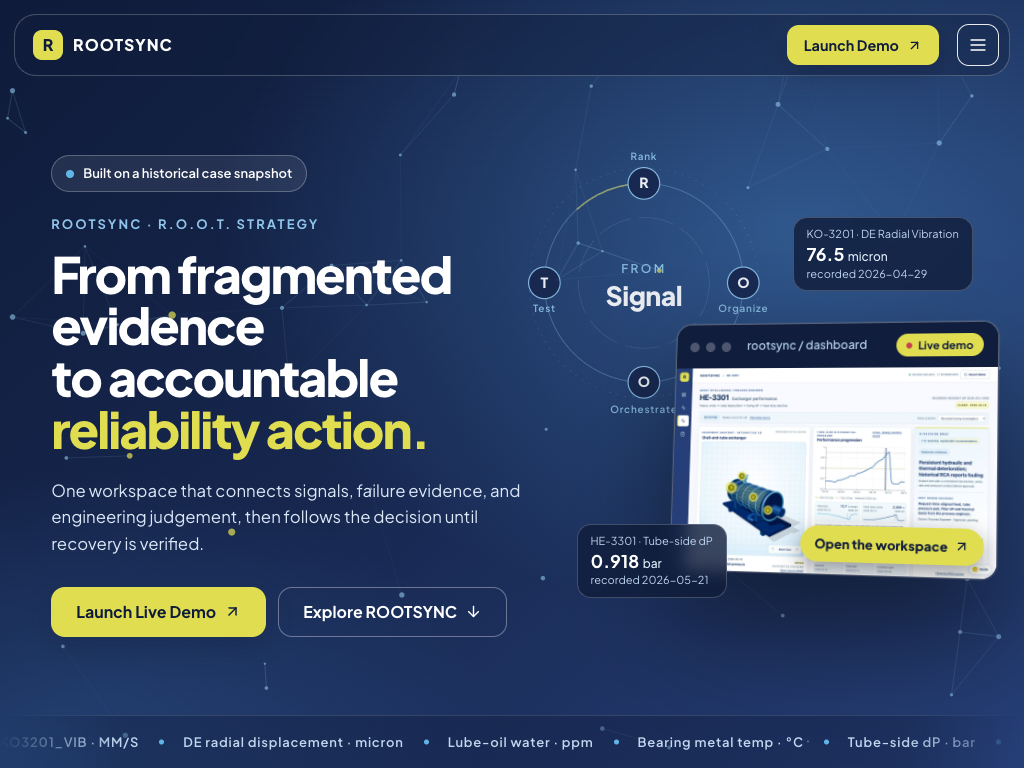
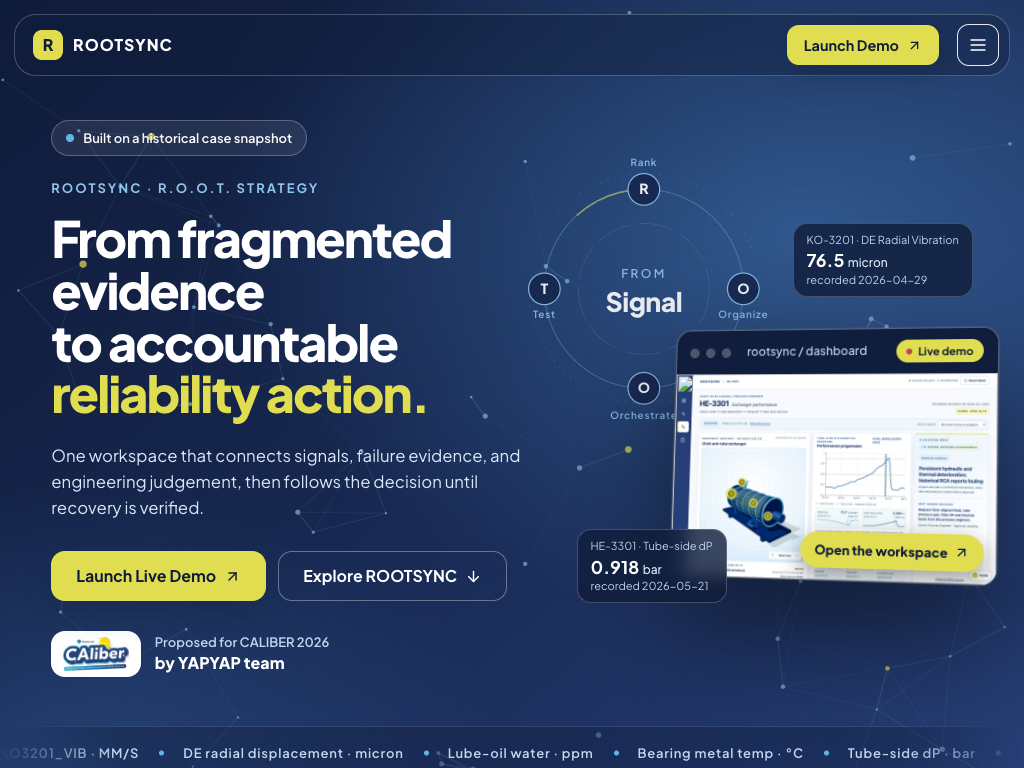
feat: faster walkthroughs, per-card R.O.O.T. scenes, CALIBER and team credit
Workflow walkthrough advances every 1.7s. The hero demo window cycles four
workspace views at 2.5s each. R.O.O.T. scenes now start when each card
enters the viewport, which fixes cards two to four staying still while the
section is pinned. Adds the CALIBER logo and the YAPYAP team credit to the
hero and footer.

diff --git a/app/landing.css b/app/landing.css
@@ -86,6 +86,12 @@ html.lenis, html.lenis body { height: auto; }
 .lp-hero-body { max-width: 31em; margin-top: 24px; color: #dbe8f8; font-size: clamp(1.05rem, 1.3vw, 1.25rem); }
 .lp-cta { display: flex; flex-wrap: wrap; gap: 12px; margin-top: 30px; }
 .lp-cta.center { justify-content: center; }
+.lp-proposed { display: inline-flex; align-items: center; gap: 14px; margin-top: 30px; }
+.lp-proposed img, .lp-footer-team img { width: auto; height: 46px; padding: 6px 12px; border-radius: 14px; background: #fff; }
+.lp-proposed span, .lp-footer-team span { display: grid; color: #c3d8f0; font-size: .8125rem; font-weight: 600; line-height: 1.35; }
+.lp-proposed b, .lp-footer-team b { color: #fff; font-size: 1rem; font-weight: 800; }
+.lp-footer-team { display: flex; flex-wrap: wrap; align-items: center; gap: 14px; margin-top: 24px; }
+.lp-footer-team b { font-size: .875rem; }
 .lp-hero-visual { position: relative; width: 100%; max-width: 560px; margin: 0 auto; aspect-ratio: 1 / .96; perspective: 1400px; }
 .lp-orbit { position: absolute; left: -14%; top: -12%; width: 62%; aspect-ratio: 1; opacity: .9; }
 .lp-hero-demo { position: absolute; right: -6%; bottom: 3%; display: block; width: 84%; border: 1px solid #ffffff4d; border-radius: 16px; background: var(--lp-deep); box-shadow: 0 50px 110px #00000080, 0 0 0 1px #ffffff14; overflow: hidden; transform: rotateY(-14deg) rotateX(6deg); transform-origin: 60% 50%; transition: box-shadow .3s, border-color .3s; animation: lp-float 7s ease-in-out infinite; }
@@ -93,7 +99,7 @@ html.lenis, html.lenis body { height: auto; }
 .lp-hero-demo .lp-mock-bar b { display: inline-flex; align-items: center; gap: 6px; margin-left: auto; padding: 3px 10px; border-radius: 999px; background: var(--lp-yellow); color: var(--lp-deep); font-size: .6875rem; }
 .lp-hero-demo .lp-mock-bar b::before { content: ""; width: 6px; height: 6px; border-radius: 50%; background: #c8424d; animation: lp-blink 1.2s ease-in-out infinite; }
 .lp-hero-shots { position: relative; display: block; aspect-ratio: 16 / 10; }
-.lp-hero-shots img { position: absolute; inset: 0; width: 100%; height: 100%; object-fit: cover; object-position: top left; animation: lp-shots 15s linear infinite; animation-delay: calc(var(--i) * 5s - 15s); }
+.lp-hero-shots img { position: absolute; inset: 0; width: 100%; height: 100%; object-fit: cover; object-position: top left; animation: lp-shots 10s linear infinite; animation-delay: calc(var(--i) * 2.5s - 10s); }
 .lp-hero-open { position: absolute; right: 12px; bottom: 12px; display: inline-flex; align-items: center; gap: 6px; padding: 8px 14px; border-radius: 999px; background: var(--lp-yellow); color: var(--lp-deep); font-size: .8125rem; font-weight: 800; box-shadow: 0 8px 22px #0006; transition: transform .25s var(--lp-ease); }
 .lp-hero-demo:hover .lp-hero-open { transform: translateY(-3px) scale(1.04); }
 .lp-orbit svg { width: 100%; height: 100%; overflow: visible; }
@@ -301,7 +307,7 @@ html.lenis, html.lenis body { height: auto; }
 .lp-relay { position: relative; display: grid; grid-template-columns: repeat(8, minmax(0, 1fr)); gap: 8px; }
 .lp-relay::before, .lp-relay::after { content: ""; position: absolute; left: 6.25%; top: 27px; height: 3px; border-radius: 3px; }
 .lp-relay::before { right: 6.25%; background: #c3d5e3; }
-.lp-relay::after { width: calc(var(--p) * 87.5%); background: linear-gradient(90deg, var(--lp-mid), var(--lp-cyan)); transition: width .7s var(--lp-ease); }
+.lp-relay::after { width: calc(var(--p) * 87.5%); background: linear-gradient(90deg, var(--lp-mid), var(--lp-cyan)); transition: width .45s var(--lp-ease); }
 .lp-relay button { position: relative; z-index: 1; display: grid; justify-items: center; gap: 3px; width: 100%; padding: 0; border: 0; background: none; color: inherit; text-align: center; }
 .lp-relay-node { display: grid; place-items: center; width: 56px; height: 56px; margin-bottom: 8px; border: 2px solid var(--lp-mid); border-radius: 50%; background: #fff; color: var(--lp-navy); font-size: 1.1rem; font-weight: 800; transition: transform .4s var(--lp-ease), background-color .3s, border-color .3s, color .3s; }
 .lp-relay li.done .lp-relay-node { background: var(--lp-navy); border-color: var(--lp-navy); color: #fff; }
@@ -317,17 +323,17 @@ html.lenis, html.lenis body { height: auto; }
 .lp-scene-role { display: inline-flex; align-items: center; gap: 10px; margin-bottom: 12px; padding: 5px 14px 5px 5px; border-radius: 999px; background: #ffffff1a; font-size: .875rem; font-weight: 700; }
 .lp-scene-role span { display: grid; place-items: center; width: 32px; height: 32px; border-radius: 50%; background: var(--lp-yellow); color: var(--lp-deep); font-size: .75rem; font-weight: 800; }
 .lp-scene-who > p:last-child { max-width: 24em; color: #dbe8f8; font-size: 1.1rem; }
-.lp-scene-screen { position: relative; border-radius: 18px; background: #fff; color: var(--lp-ink); box-shadow: 0 30px 70px #00000059; overflow: hidden; animation: lp-screen .55s var(--lp-ease); }
+.lp-scene-screen { position: relative; border-radius: 18px; background: #fff; color: var(--lp-ink); box-shadow: 0 30px 70px #00000059; overflow: hidden; animation: lp-screen .35s var(--lp-ease); }
 .lp-scene-bar { display: flex; align-items: center; gap: 6px; padding: 10px 14px; background: var(--lp-tint); border-bottom: 1px solid var(--lp-line); }
 .lp-scene-bar i { width: 9px; height: 9px; border-radius: 50%; background: #b9cbdb; }
 .lp-scene-bar span { margin-left: 8px; font-size: .75rem; font-weight: 700; }
 .lp-scene-screen ul { padding: 14px 14px 6px; }
-.lp-scene-screen li { display: flex; align-items: center; gap: 10px; margin-bottom: 8px; padding: 11px 13px; border: 1px solid var(--lp-line); border-radius: 12px; font-size: .875rem; font-weight: 600; animation: lp-rowin .45s var(--lp-ease) both; animation-delay: calc(.15s + var(--i) * .22s); }
+.lp-scene-screen li { display: flex; align-items: center; gap: 10px; margin-bottom: 8px; padding: 11px 13px; border: 1px solid var(--lp-line); border-radius: 12px; font-size: .875rem; font-weight: 600; animation: lp-rowin .3s var(--lp-ease) both; animation-delay: calc(.05s + var(--i) * .1s); }
 .lp-scene-screen li.alert { border-color: #f3c0c5; background: #fdecee; color: #a32b36; }
 .lp-scene-screen li.ok { border-color: #bfe3d6; background: #e9f6f1; color: #17604d; }
-.lp-scene-screen li.pick { border: 1.5px solid var(--lp-navy); color: var(--lp-navy); font-weight: 800; animation: lp-rowin .45s var(--lp-ease) both, lp-pick 2.6s var(--lp-ease) both; animation-delay: calc(.15s + var(--i) * .22s), 0s; }
+.lp-scene-screen li.pick { border: 1.5px solid var(--lp-navy); color: var(--lp-navy); font-weight: 800; animation: lp-rowin .3s var(--lp-ease) both, lp-pick 1.5s var(--lp-ease) both; animation-delay: calc(.05s + var(--i) * .1s), 0s; }
 .lp-scene-screen .dot { width: 8px; height: 8px; border-radius: 50%; background: currentColor; }
-.lp-scene-cursor { position: absolute; left: 62%; bottom: 14px; color: var(--lp-deep); fill: #fff; filter: drop-shadow(0 2px 4px #0006); animation: lp-cursor 2.6s var(--lp-ease) both; }
+.lp-scene-cursor { position: absolute; left: 62%; bottom: 14px; color: var(--lp-deep); fill: #fff; filter: drop-shadow(0 2px 4px #0006); animation: lp-cursor 1.5s var(--lp-ease) both; }
 .lp-scene-rows { position: absolute; width: 1px; height: 1px; overflow: hidden; clip-path: inset(50%); white-space: nowrap; }
 .lp-scene-toggle { position: absolute; right: 16px; top: 16px; display: grid; place-items: center; width: 36px; height: 36px; border: 1px solid #ffffff4d; border-radius: 50%; background: transparent; color: #fff; }
 .lp-scene-toggle:hover { background: #ffffff1f; }
@@ -398,7 +404,7 @@ html.lenis, html.lenis body { height: auto; }
 @keyframes lp-row { 0% { opacity: 0; translate: -16px 0; } 7%, 68% { opacity: 1; translate: 0; } 76%, 100% { opacity: 0; translate: 0; } }
 @keyframes lp-tick { 0% { background: transparent; border-color: #9db1c6; color: transparent; scale: 1; } 4% { background: #1c725b; border-color: #1c725b; color: #fff; scale: 1.45; } 9%, 70% { background: #1c725b; border-color: #1c725b; color: #fff; scale: 1; } 78%, 100% { background: transparent; border-color: #9db1c6; color: transparent; } }
 @keyframes lp-stamp { 0%, 68% { opacity: 0; scale: 2; } 74%, 94% { opacity: 1; scale: 1; } 100% { opacity: 0; scale: 1; } }
-@keyframes lp-shots { 0%, 30% { opacity: 1; } 34%, 96% { opacity: 0; } 100% { opacity: 1; } }
+@keyframes lp-shots { 0%, 22% { opacity: 1; } 25%, 97% { opacity: 0; } 100% { opacity: 1; } }
 @keyframes lp-beacon { from { box-shadow: 0 0 0 0 #e0de50b3; } to { box-shadow: 0 0 0 18px #e0de5000; } }
 @keyframes lp-screen { from { opacity: 0; transform: translateY(26px) scale(.96); } }
 @keyframes lp-rowin { from { opacity: 0; transform: translateX(-18px); } }

diff --git a/components/landing/Sections.tsx b/components/landing/Sections.tsx
@@ -40,12 +40,13 @@ export function LandingHero(){
      <Link className="lp-btn primary" href={routes.dashboard}>Launch Live Demo<ArrowUpRight size={17} aria-hidden="true"/></Link>
      <a className="lp-btn ghost" href="#evidence">Explore ROOTSYNC<ArrowDown size={17} aria-hidden="true"/></a>
     </div>
+    <p className="lp-proposed" data-intro><img src={asset('/landing/caliber-logo.png')} alt="CALIBER, Chandra Asri Limitless Innovation and Business Strategy Challenge" width={530} height={275}/><span>Proposed for CALIBER 2026<b>by YAPYAP team</b></span></p>
    </div>
    <div className="lp-hero-visual">
     <Orbit/>
     <Link className="lp-hero-demo" href={routes.dashboard} aria-label="Open the live demo">
      <span className="lp-mock-bar" aria-hidden="true"><i/><i/><i/><span>rootsync / dashboard</span><b>Live demo</b></span>
-     <span className="lp-hero-shots">{['dashboard','ko-3201','he-3301'].map((n,i)=><img key={n} src={asset(`/landing/${n}.jpg`)} alt="" width={1440} height={900} style={css({'--i':i})} fetchPriority={i===0?'high':undefined} loading={i===0?undefined:'lazy'}/>)}</span>
+     <span className="lp-hero-shots">{['dashboard','ko-3201','he-3301','actions'].map((n,i)=><img key={n} src={asset(`/landing/${n}.jpg`)} alt="" width={1440} height={900} style={css({'--i':i})} fetchPriority={i===0?'high':undefined} loading={i===0?undefined:'lazy'}/>)}</span>
      <span className="lp-hero-open">Open the workspace<ArrowUpRight size={15} aria-hidden="true"/></span>
     </Link>
     <ul className="lp-chips" aria-label="Recorded readings at the historical trip week">
@@ -174,6 +175,7 @@ export function LandingFooter(){
    <p className="lp-wordmark"><span className="lp-mark" aria-hidden="true">R</span>ROOTSYNC</p>
    <nav aria-label="Footer">{navItems.map(n=><a key={n.id} href={`#${n.id}`}>{n.label}</a>)}<Link href={routes.dashboard}>Dashboard</Link></nav>
   </div>
-  <p className="lp-source">R.O.O.T. Strategy · CALIBER 2026 · Built on a frozen historical case snapshot. Advisory only. Protective systems remain authoritative.</p>
+  <p className="lp-footer-team"><img src={asset('/landing/caliber-logo.png')} alt="CALIBER, Chandra Asri Limitless Innovation and Business Strategy Challenge" width={530} height={275} loading="lazy"/><span>R.O.O.T. Strategy · a proposal for CALIBER 2026<b>YAPYAP team · Abel Gani · Muhammad Faris Daffa · Adelia Rifani</b></span></p>
+  <p className="lp-source">Built on a frozen historical case snapshot. Advisory only. Protective systems remain authoritative. The CALIBER logo belongs to its owner and is shown to identify the competition.</p>
  </footer>;
 }

diff --git a/components/landing/LandingMotion.tsx b/components/landing/LandingMotion.tsx
@@ -14,6 +14,10 @@ export function LandingMotion(){
   const page=document.querySelector<HTMLElement>('.lp');if(!page)return;
   page.classList.add('lp-ready');
   if(window.matchMedia('(prefers-reduced-motion: reduce)').matches){page.querySelectorAll('[data-live]').forEach(el=>el.classList.add('live'));return}
+  // Looping scenes run only while they are actually visible. An IntersectionObserver is used
+  // because it stays correct inside the pinned, sideways-moving R.O.O.T. track.
+  const liveObserver=new IntersectionObserver(entries=>entries.forEach(e=>e.target.classList.toggle('live',e.isIntersecting)),{threshold:.2});
+  page.querySelectorAll('[data-live]').forEach(el=>liveObserver.observe(el));
   gsap.registerPlugin(ScrollTrigger,SplitText);
   page.classList.add('lp-anim');
   const lenis=new Lenis({duration:1.1,smoothWheel:true});
@@ -48,8 +52,6 @@ export function LandingMotion(){
     const write=()=>{el.textContent=o.v.toLocaleString('en-US',{minimumFractionDigits:decimals,maximumFractionDigits:decimals})};
     gsap.to(o,{v:end,duration:1.8,ease:'power2.out',onUpdate:write,scrollTrigger:{trigger:el,start:'top 90%',once:true}});
    });
-   // Looping micro-animations only run while their section is on screen
-   gsap.utils.toArray<HTMLElement>('.lp [data-live]').forEach(el=>ScrollTrigger.create({trigger:el,start:'top 80%',end:'bottom 10%',toggleClass:'live'}));
    // Parallax
    gsap.utils.toArray<HTMLElement>('.lp [data-parallax]').forEach(el=>gsap.fromTo(el,{yPercent:Number(el.dataset.parallax)},{yPercent:-Number(el.dataset.parallax),ease:'none',scrollTrigger:{trigger:el,start:'top bottom',end:'bottom top',scrub:true}}));
    // Demo screenshot unfolds from a tilted plane
@@ -86,7 +88,7 @@ export function LandingMotion(){
   const refresh=()=>{ScrollTrigger.sort();ScrollTrigger.refresh()};
   refresh();
   document.fonts?.ready.then(refresh);window.addEventListener('load',refresh);
-  return ()=>{window.removeEventListener('load',refresh);page.classList.remove('lp-anim');ctx.revert();gsap.ticker.remove(tick);lenis.destroy();delete window.__lenis;page.classList.remove('lp-ready')};
+  return ()=>{window.removeEventListener('load',refresh);liveObserver.disconnect();page.classList.remove('lp-anim');ctx.revert();gsap.ticker.remove(tick);lenis.destroy();delete window.__lenis;page.classList.remove('lp-ready')};
  },[]);
  return null;
 }

diff --git a/components/landing/WorkflowRelay.tsx b/components/landing/WorkflowRelay.tsx
@@ -3,7 +3,7 @@ import {useEffect,useRef,useState} from 'react';
 import {AlertTriangle,Check,MousePointer2,Pause,Play} from 'lucide-react';
 import type {WorkflowStep} from '@/content/landing';
 
-const STEP_MS=2800;
+const STEP_MS=1700;
 
 // The eight workflow steps as a relay. A pulse moves from owner to owner and the
 // small screen underneath shows what that person does at that step.

diff --git a/docs/landing-implementation-report.md b/docs/landing-implementation-report.md
@@ -10,7 +10,7 @@ The landing page introduces the ROOTSYNC workspace to a jury: what problem it an
 
 | Chapter | What the visitor sees |
 | --- | --- |
-| Hero | Particle field that reacts to the pointer, an orbiting R.O.O.T. loop, and a tilted window cycling through three real dashboard views that opens the live demo |
+| Hero | Particle field that reacts to the pointer, an orbiting R.O.O.T. loop, and a tilted window cycling through four real workspace views at 2.5 seconds each that opens the live demo, and the CALIBER logo with the YAPYAP team credit |
 | 01 The record | Three numbers counting up: 380 incidents, 2,261.1 h, US$67.2M |
 | 02 The problem | A pinned scene of 380 dots. Scattered, then one per asset, then stacked by failure family. Followed by one waveform forking into two causes |
 | 03 R.O.O.T. | Four panels travelling sideways while the section is pinned. Each plays a short scene: alerts sorting into a ranked queue, sources feeding one evidence ledger, a decision collecting owner and approval, a reading recovering before the case closes |

diff --git a/docs/landing-evidence-map.md b/docs/landing-evidence-map.md
@@ -9,6 +9,7 @@ Reviewed 4 October 2026. Each claim on `/` is listed with where it comes from. S
 | Product name is ROOTSYNC | Dashboard branding, package name, handoff note |
 | R.O.O.T. is the operating model | Deck title "R.O.O.T. Strategy", solution and conclusion slides |
 | The four dimensions and their one-line definitions | Deck solution slide, quoted without change |
+| CALIBER logo and "Proposed by YAPYAP team" | Logo image and team names taken from the deck cover and team profile slide |
 | Hero headline "From fragmented evidence to accountable reliability action" | Deck cover subtitle |
 
 The brief uses "ROOT" and the older timeline workbook uses "KAUSYNC". Neither is shown on the page.
